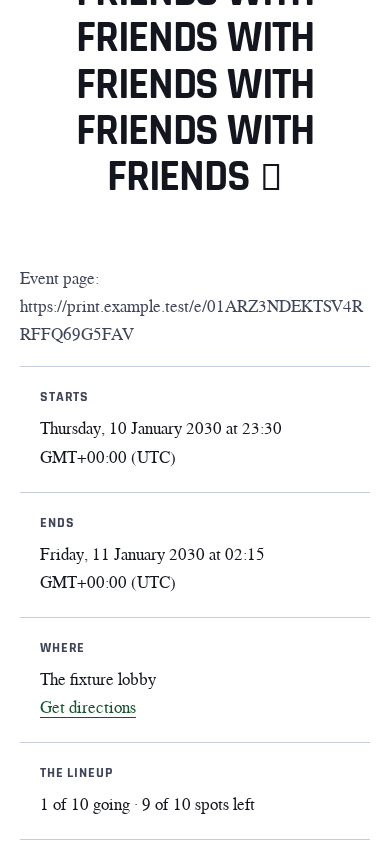
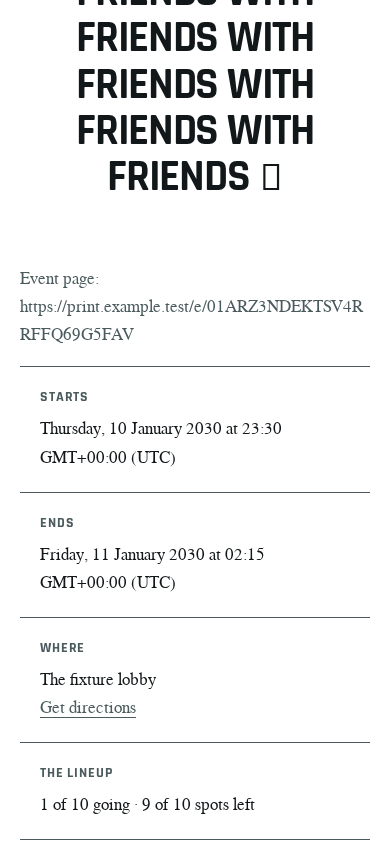
fix(events): derive print palette from tokens instead of hex
The no-hardcoded-hex rule bans hex literals in theme sheets. The print
remap now inverts through existing tokens (ink from page, muted/accent
from border, paper/surface named white) with zero literals; the pin moves
with the remeasured bytes. Evidence crops refreshed from the new render.

Changed region(s): [[0.0923, 0.8318, 0.3385, 0.8626]]

diff --git a/public/event-theme.css b/public/event-theme.css
@@ -59,12 +59,13 @@
   .event-theme .event-share { padding-top: 0; }
   .event-theme .event-pagination a[rel='next'] { align-items: start; text-align: left; }
 }
-/* Print (event routes, both twins): light paper; chrome hides, references reveal. */
+/* Print (event routes only): light-paper summary; chrome hides. */
 @media print {
-  html:root, html:root body { background: #fff; }
+  html:root, html:root body { background: white; }
   .base-theme.event-theme {
-    --color-text: #14161f; --color-page: #fff; --color-accent: #14532d;
-    --color-muted: #3f4459; --color-surface: #fff; --color-border: #c9cddb;
+    background: white;
+    --color-text: var(--color-page); --color-surface: white;
+    --color-muted: var(--color-border); --color-accent: var(--color-border);
   }
   .event-theme .site-header, .event-theme footer, .event-theme [href="#main"],
   .event-theme .event-back, .event-theme .event-rsvp, .event-theme .event-share,

diff --git a/test/event-theme.test.ts b/test/event-theme.test.ts
@@ -198,7 +198,7 @@ describe("event detail theme", () => {
     expect(css).toContain("min-height: 44px");
     expect(css).not.toContain("@import");
     expect(css).not.toContain("url(");
-    // 7160: route-scoped print summary (+1033 over the pre-print 6125):
+    // 7160: route-scoped print summary (+1029 over the pre-print 6125):
     // light-paper token remap, chrome suppression and reference-line reveal
     // for both twins; the ci/bundle-budget.json ceiling (7168 raw) is unchanged.
     expect(css.length).toBeLessThan(7160);
